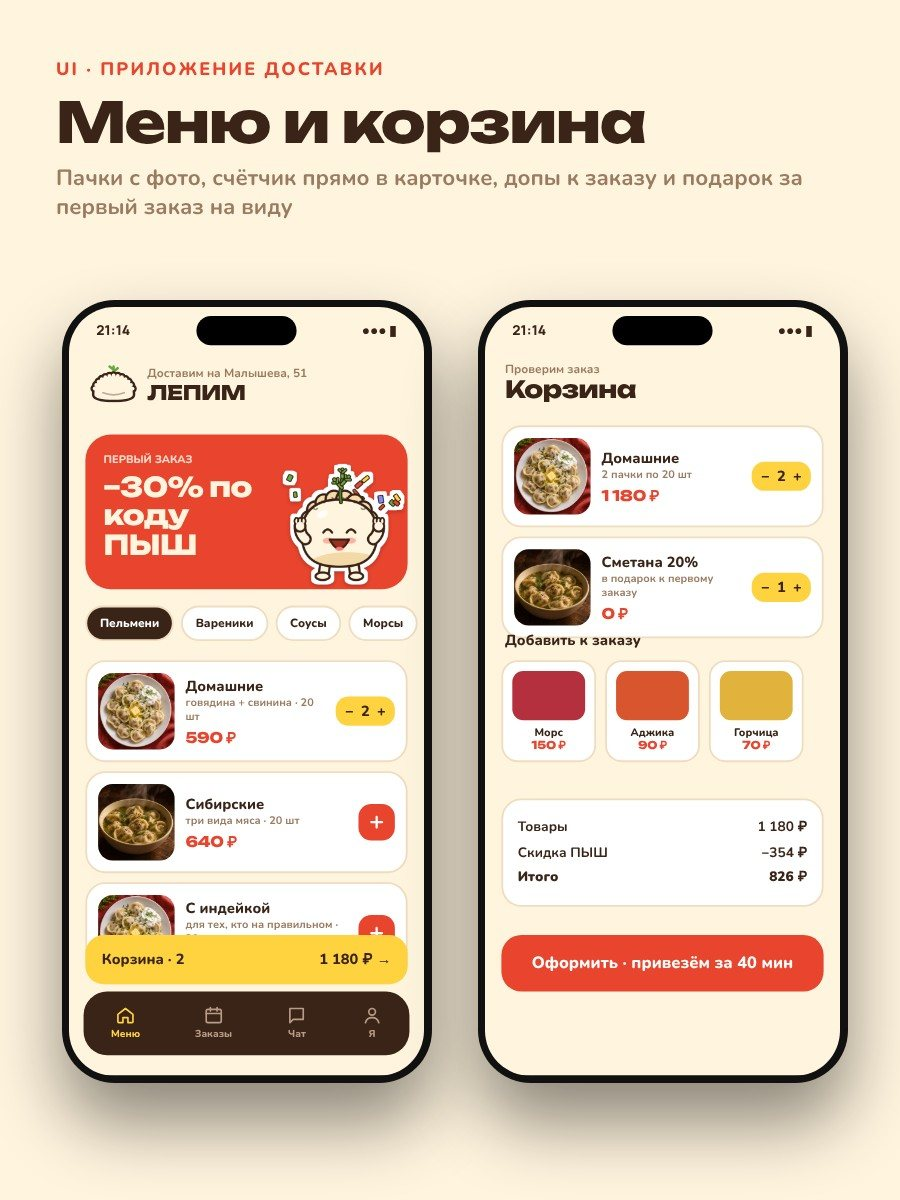
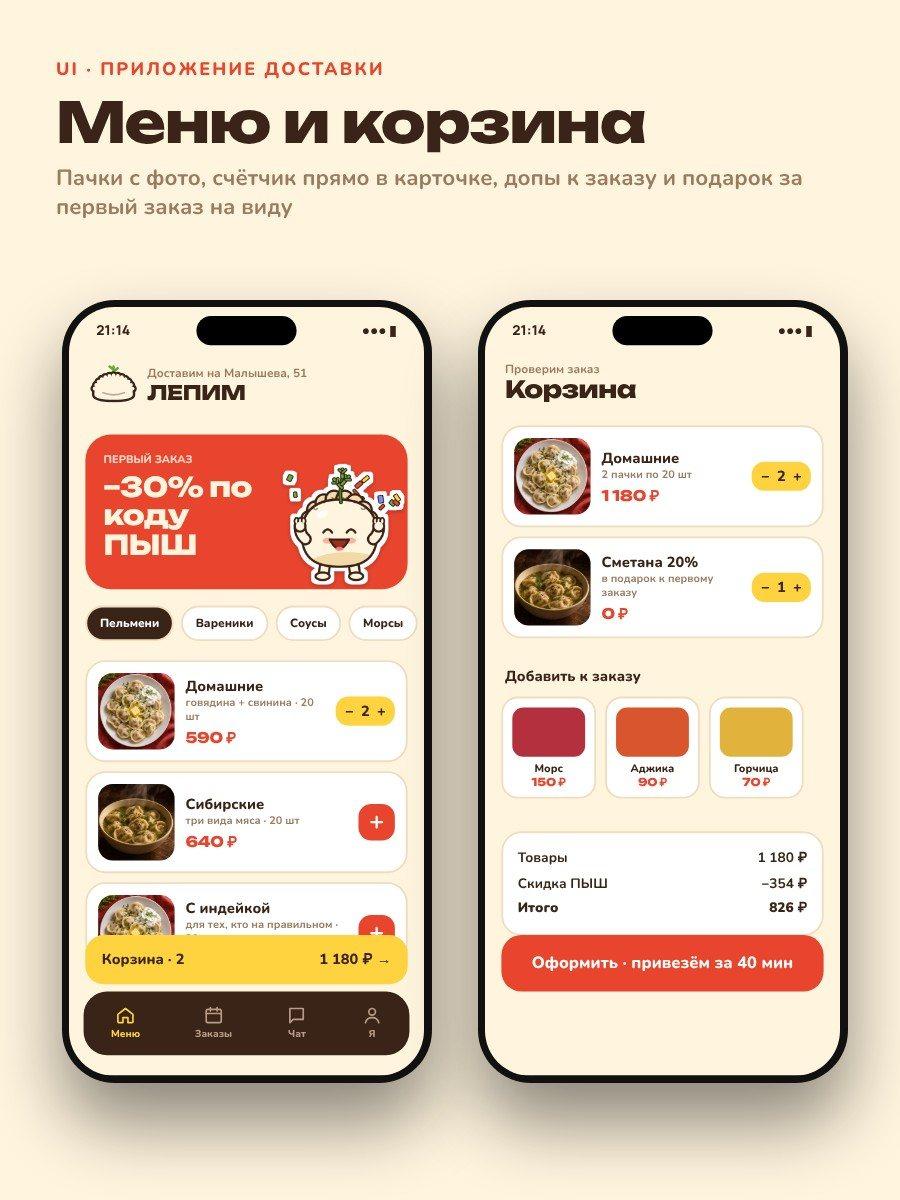
Анимации работают и при включённом «уменьшить движение»: горы и бегущая лента; шоурил грузится только когда виден; правки Спик Изи и корзины ЛЕПИМ
Claude-Session: https://claude.ai/code/session_01JAJVm4pdAHYewPjCi6B84w

Changed region(s): [[0.56, 0.5242, 0.9333, 0.8017]]

diff --git a/index.html b/index.html
@@ -96,7 +96,7 @@ section.sec{padding-top:110px;padding-bottom:30px}
 .tl:hover .pop a:nth-child(3),.tl.on .pop a:nth-child(3){transform:translate(112px,8px) rotate(10deg);transition-delay:.08s}
 .tl .pop a:hover{border-color:var(--lime)}
 .mq-hint{font:600 14px Manrope;color:#8f88a6;margin-top:8px}
-@media (prefers-reduced-motion:reduce){.mq-track{animation:none;flex-wrap:wrap;width:auto}.mq{-webkit-mask-image:none;mask-image:none}}
+@media (prefers-reduced-motion:reduce){.mq-track{animation:mq 60s linear infinite!important}}
 .contact{margin-top:110px;padding:120px 18px 50px;text-align:center;border-top:1px solid var(--line);background:linear-gradient(transparent,rgba(12,10,22,.7))}
 .contact .h2{font-size:clamp(40px,8vw,110px)}
 .contact p{margin:18px 0 26px;color:var(--mut);font-size:18px}
@@ -161,7 +161,7 @@ body.cv #catView{display:block}
  .car{height:auto;width:100%}.nav{width:38px;height:38px}.side{overflow:visible}.x{top:10px;right:10px}
  .cnt{top:auto;bottom:12px;left:12px}
 }
-@media(prefers-reduced-motion:reduce){*{animation:none!important;transition:none!important}.rv{opacity:1;transform:none}}
+@media(prefers-reduced-motion:reduce){*:not(.mq-track){animation:none!important}.rv{opacity:1;transform:none}}
 .snd{position:absolute;right:16px;bottom:16px;display:flex;align-items:center;gap:8px;padding:10px 16px;border-radius:999px;border:1px solid rgba(255,255,255,.18);background:rgba(12,10,22,.72);backdrop-filter:blur(10px);color:#fff;font:700 14px/20px inherit;font-family:inherit;cursor:pointer;transition:transform .3s cubic-bezier(.22,1,.36,1),background-color .3s cubic-bezier(.22,1,.36,1)}
 .snd:hover{background:rgba(198,244,50,.92);color:#0c0a16}.snd:active{transform:scale(.98)}.snd:focus-visible{outline:2px solid #c6f432;outline-offset:3px}
 .down{transition:transform .5s cubic-bezier(.22,1,.36,1),border-color .3s cubic-bezier(.22,1,.36,1),background-color .3s cubic-bezier(.22,1,.36,1)}.down:hover{border-color:#c6f432;background:rgba(198,244,50,.1)}
@@ -188,7 +188,7 @@ body.cv #catView{display:block}
 
  <section class="sec in" id="reel">
   <div class="head rv"><h2 class="h2">Шоурил</h2><p>30 секунд обо всём сразу: монтаж, моушен, 3D и персонаж-ведущий. Включи звук.</p></div>
-  <div class="reelbox rv"><video id="reelv" src="works/video/showreel/reel-16x9.mp4" poster="works/video/showreel/poster.jpg" autoplay muted loop playsinline preload="auto"></video><button type="button" class="snd" id="snd" aria-pressed="false" aria-label="Включить звук"><svg width="18" height="18" viewBox="0 0 24 24" fill="none" stroke="currentColor" stroke-width="2" stroke-linecap="round" stroke-linejoin="round" aria-hidden="true"><path d="M4 9h4l5-4v14l-5-4H4z"/><path class="w" d="M17 9l4 6M21 9l-4 6"/></svg><span>Включить звук</span></button></div>
+  <div class="reelbox rv"><video id="reelv" src="works/video/showreel/reel-16x9.mp4" poster="works/video/showreel/poster.jpg" muted loop playsinline preload="none"></video><button type="button" class="snd" id="snd" aria-pressed="false" aria-label="Включить звук"><svg width="18" height="18" viewBox="0 0 24 24" fill="none" stroke="currentColor" stroke-width="2" stroke-linecap="round" stroke-linejoin="round" aria-hidden="true"><path d="M4 9h4l5-4v14l-5-4H4z"/><path class="w" d="M17 9l4 6M21 9l-4 6"/></svg><span>Включить звук</span></button></div>
  </section>
 
  <section class="sec in" id="works">
@@ -235,8 +235,8 @@ body.cv #catView{display:block}
 <button class="zoom" id="zoom" aria-label="Закрыть увеличение"><img alt=""></button>
 
 <script src="https://cdnjs.cloudflare.com/ajax/libs/three.js/r128/three.min.js"></script>
-<script src="bg.js?v=1795539331"></script>
-<script src="data.js?v=1795539331"></script>
+<script src="bg.js?v=1795539984"></script>
+<script src="data.js?v=1795539984"></script>
 <script>
 {
 // ===== НАСТРОЙ: контакты =====

diff --git a/bg.js b/bg.js
@@ -102,12 +102,12 @@
   const loop = now => {
     if (!run) return;
     const dt = Math.min(.05, (now - last) / 1000); last = now;
-    if (!reduce) travel += dt * 6;
+    travel += dt * (reduce ? 2.5 : 6);
     mat.uniforms.uT.value = travel;
 
     mx += (tx - mx) * dt * 2; my += (ty - my) * dt * 2;
     open += (openT - open) * Math.min(1, dt * (openT > open ? 3.2 : 4.5));
-    const eo = reduce ? 0 : open * open * (3 - 2 * open);
+    const eo = open * open * (3 - 2 * open);
     mat.uniforms.uOpen.value = eo; rmat.uniforms.uOpen.value = eo;
     const sc = Math.min(scrollY / innerHeight, 4);
     const eye = 9 + sc * 5 - eo * 3.5;
